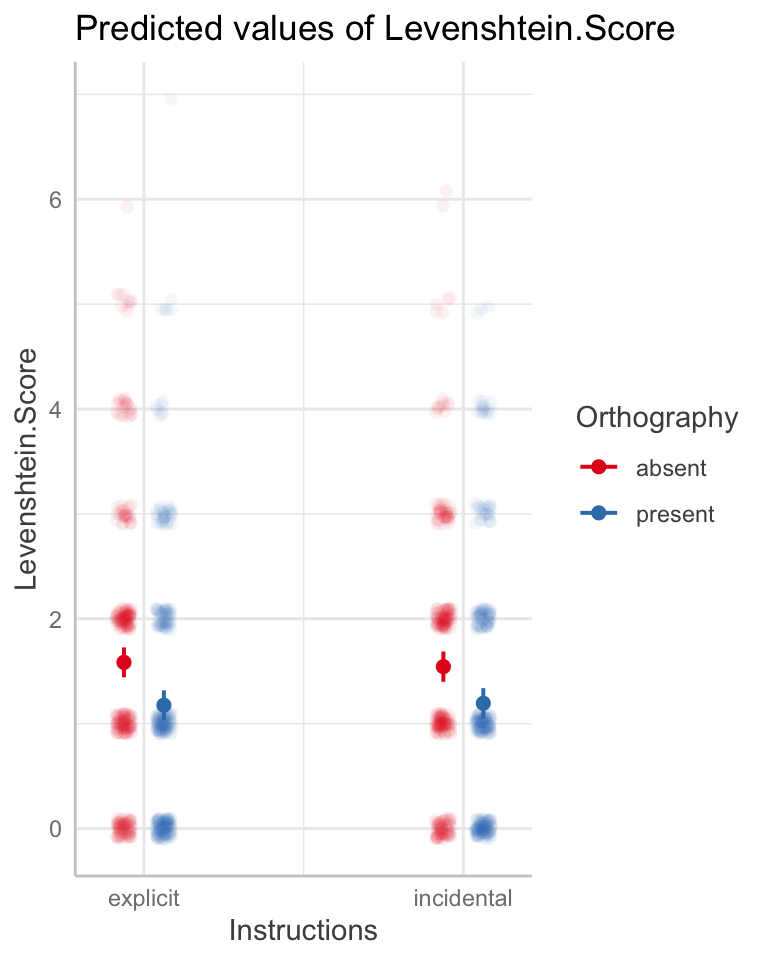
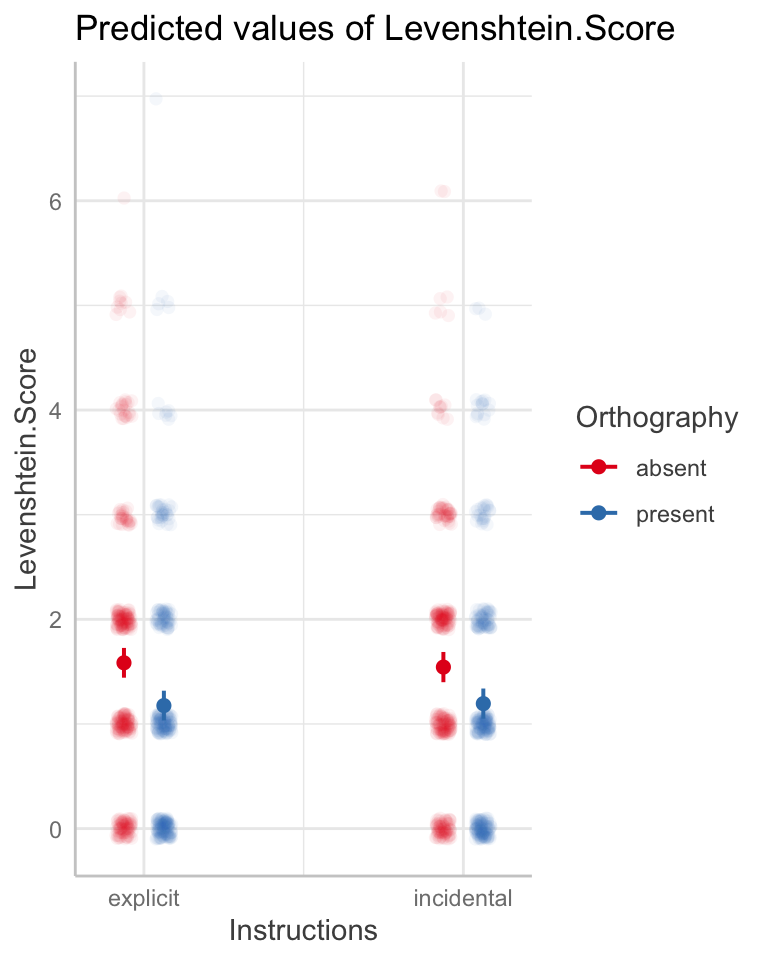
-- quarto render
-- note that now re-render the whole handbook -- including the 7142 and 7143 lectures as well as the 7142 tutorial

-- render all and push to publish

diff --git a/docs/PSYC7143/7143_w6_vis-perspectives.html b/docs/PSYC7143/7143_w6_vis-perspectives.html
@@ -392,6 +392,19 @@ ul.task-list li input[type="checkbox"] {
 <li>Combine your creative thinking with the Grammar of Graphics to produce visualizations</li>
 </ul>
 <p>There is a little repetition if you compare the two lectures because I do not assume you must view the perspectives lecture to understand the practices lecture.</p>
+<div class="callout callout-style-default callout-tip callout-titled">
+<div class="callout-header d-flex align-content-center">
+<div class="callout-icon-container">
+<i class="callout-icon"></i>
+</div>
+<div class="callout-title-container flex-fill">
+Tip
+</div>
+</div>
+<div class="callout-body-container callout-body">
+<p>In the <a href="../PSYC7142/part2/visualization.html#sec-vis-aims">linked tutorial in PSYC7142</a>, we provide in-depth explanation of development processes and code steps that you can follow-up if you want to learn more about developing and producing visualizations for discovery and communication.</p>
+</div>
+</div>
 </section>
 <section id="sec-7143-w6-lectures" class="level2">
 <h2 class="anchored" data-anchor-id="sec-7143-w6-lectures">Lectures</h2>

diff --git a/docs/PSYC7142/part2/7142_vis-practices.html b/docs/PSYC7142/part2/7142_vis-practices.html
@@ -391,6 +391,7 @@ ul.task-list li input[type="checkbox"] {
 <li>Think about your audience –– a tool kit</li>
 </ul>
 <p>There is a little repetition if you compare the two lectures because I do not assume you must view the practices lecture to understand the perspectives lecture.</p>
+<p>In the <a href="../../PSYC7142/part2/visualization.html#sec-vis-aims">linked tutorial in PSYC7142</a>, we provide in-depth explanation of development processes and code steps that you can follow-up if you want to learn more about developing and producing visualizations for discovery and communication.</p>
 </section>
 <section id="sec-7142-vis-lectures" class="level2">
 <h2 class="anchored" data-anchor-id="sec-7142-vis-lectures">Lectures</h2>
